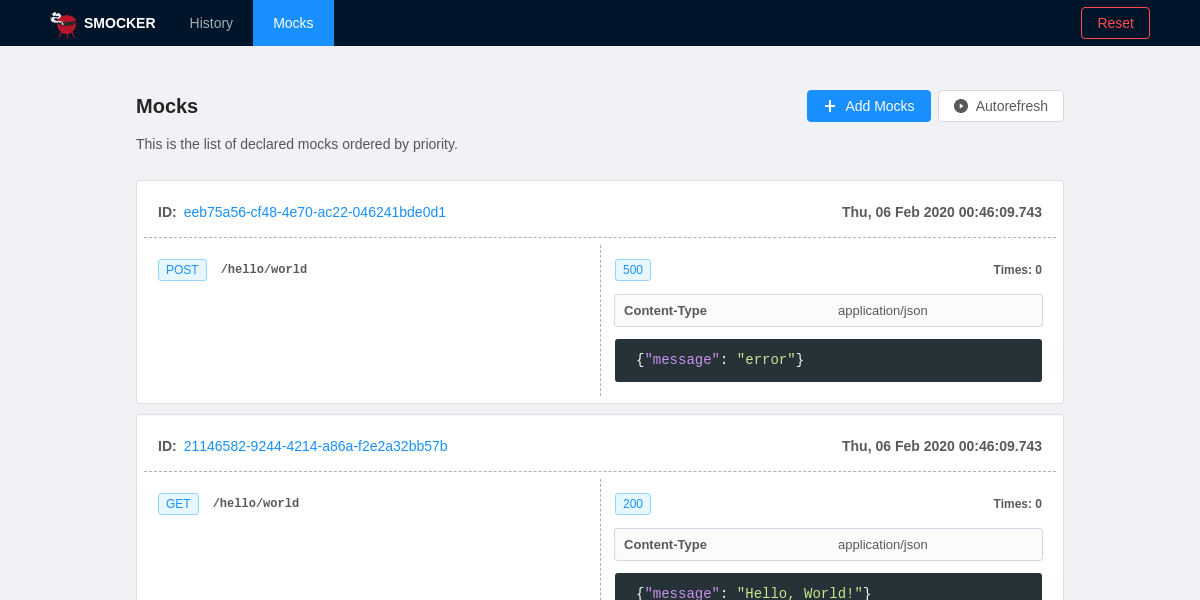
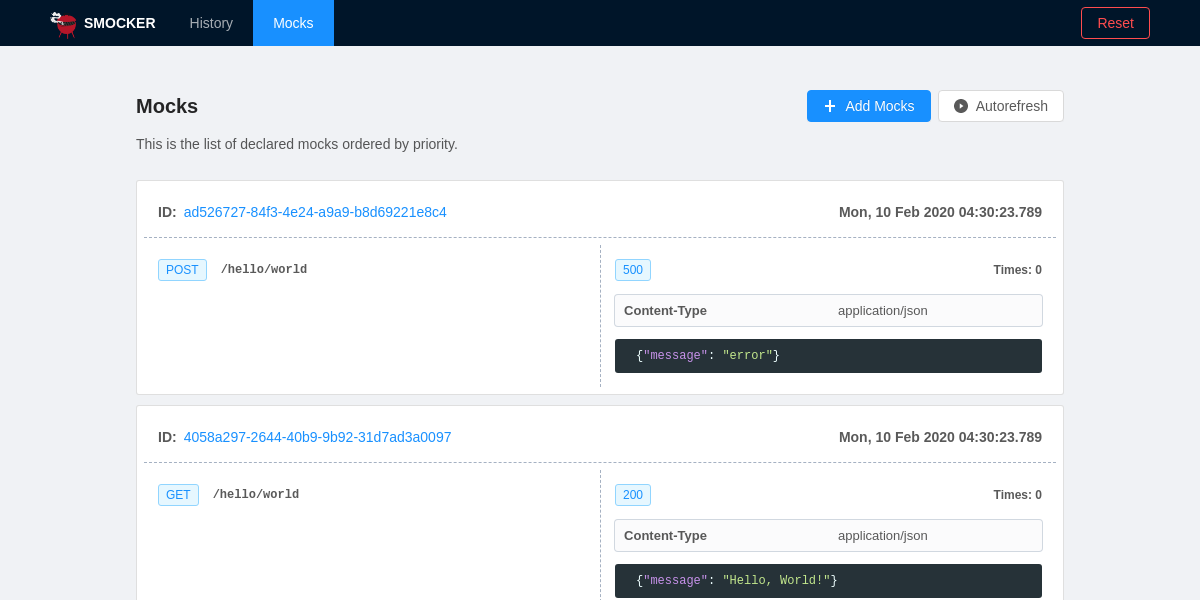
feat:  change font-size in code component + regenerate screenshots

diff --git a/client/src/components/Code.scss b/client/src/components/Code.scss
@@ -1,8 +1,4 @@
 .code-editor {
-  .CodeMirror-wrap pre.CodeMirror-line {
-    line-height: initial;
-  }
-
   .CodeMirror {
     position: relative;
     height: auto;
@@ -13,6 +9,16 @@
 
     .CodeMirror-scroll {
       height: auto;
+    }
+
+    .CodeMirror-line {
+      line-height: 12px;
+      font-size: 12px;
+    }
+
+    .CodeMirror-gutter-elt {
+      line-height: 12px;
+      font-size: 14px;
     }
   }
 }
